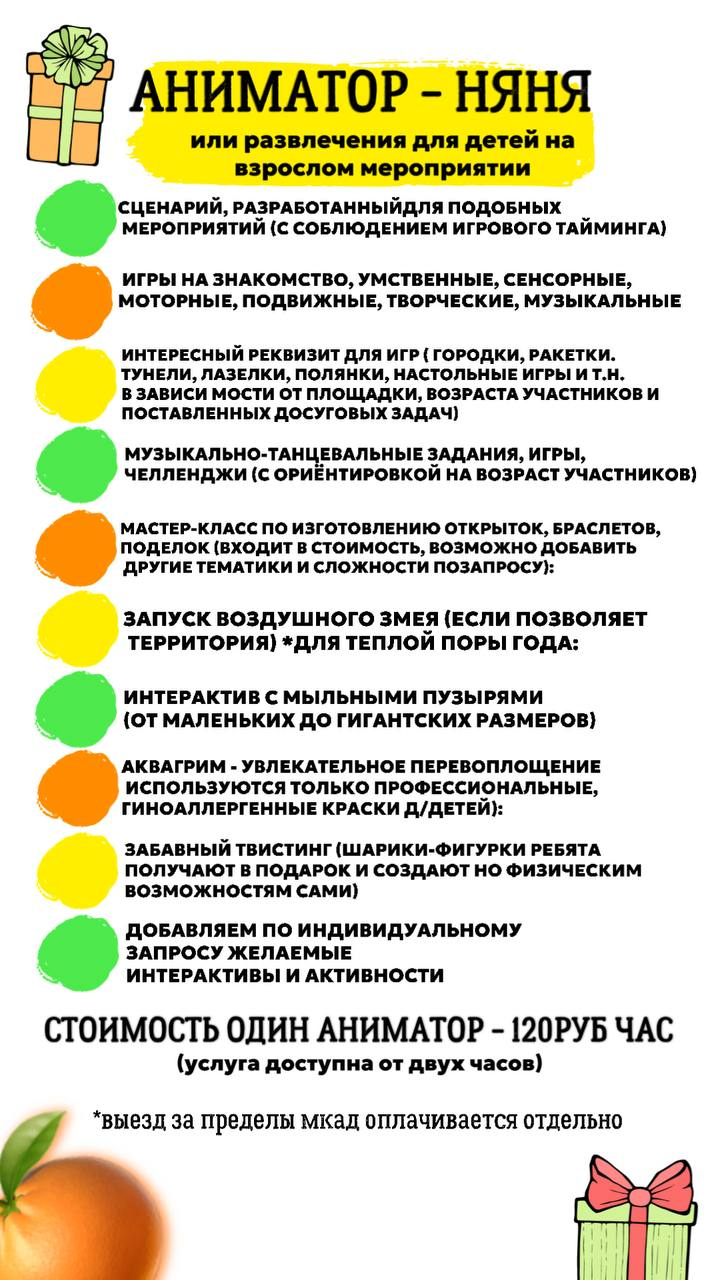
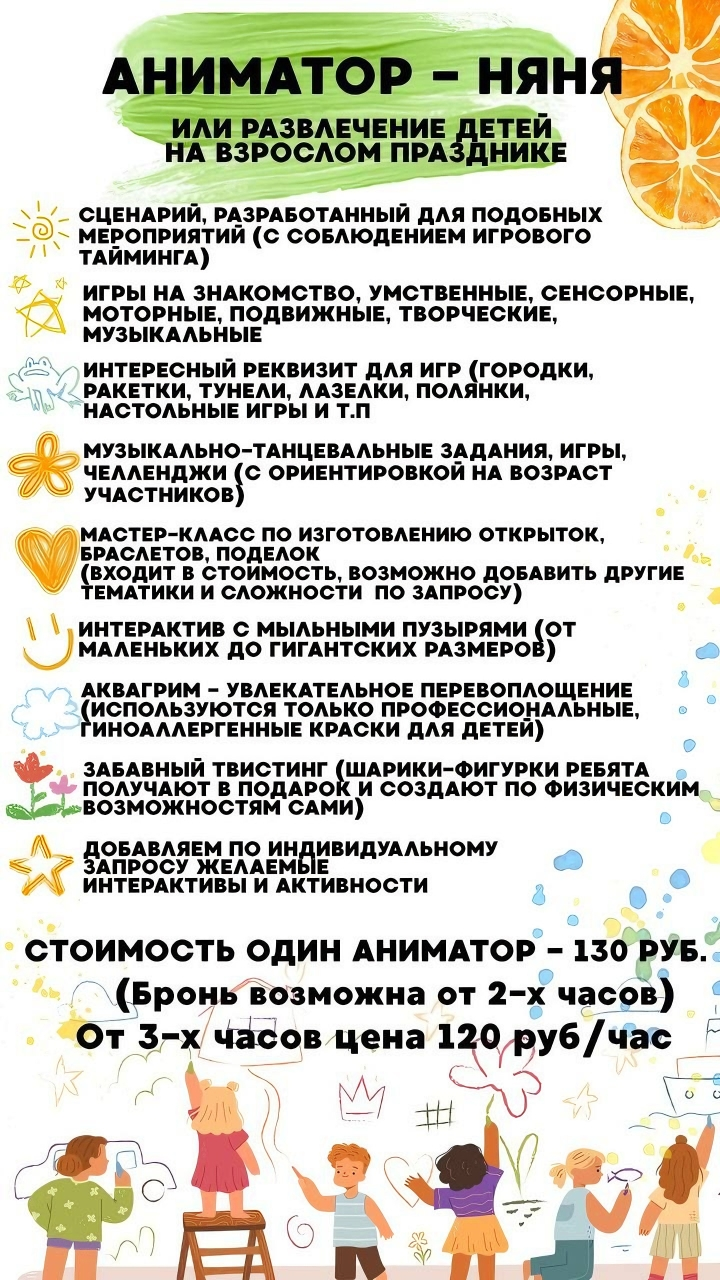
add booms, disco, questWithLabubu, schoolboyOrTroublemaker, new image animatorNanny, soapExtravaganza

diff --git a/constants/programsData.ts b/constants/programsData.ts
@@ -72,6 +72,26 @@ export const programsData: IGoodsData = {
             description: programsDescription,
             images: ['boom1'],
     },
+    'booms': {
+        name: 'Бумс',
+            description: programsDescription,
+            images: ['booms1'],
+    },
+    'disco': {
+        name: 'Диско',
+            description: programsDescription,
+            images: ['disco1'],
+    },
+    'questWithLabubu': {
+        name: 'Квест с Лабубу',
+            description: programsDescription,
+            images: ['questWithLabubu1'],
+    },
+    'schoolboyOrTroublemaker': {
+        name: 'ШКОЛЬНИК или ШКОДНИК?!',
+            description: programsDescription,
+            images: ['questWithLabubu1'],
+    },
     'customProgram': {
         name: 'Сборная программа',
             description: 'Вы просмотрели все праздничные пакеты и не остановились не на одном? Захотелось что-то с одной программы, а что-то с другой? Не беда! Мы составим только Ваш индивидуальный набор развлечений, который подойдёт именно Вам🤗🎉\n' +

diff --git a/constants/programsData.js b/constants/programsData.js
@@ -72,6 +72,26 @@ exports.programsData = {
         description: programsDescription,
         images: ['boom1'],
     },
+    'booms': {
+        name: 'Бумс',
+        description: programsDescription,
+        images: ['booms1'],
+    },
+    'disco': {
+        name: 'Диско',
+        description: programsDescription,
+        images: ['disco1'],
+    },
+    'questWithLabubu': {
+        name: 'Квест с Лабубу',
+        description: programsDescription,
+        images: ['questWithLabubu1'],
+    },
+    'schoolboyOrTroublemaker': {
+        name: 'ШКОЛЬНИК или ШКОДНИК?!',
+        description: programsDescription,
+        images: ['questWithLabubu1'],
+    },
     'customProgram': {
         name: 'Сборная программа',
         description: 'Вы просмотрели все праздничные пакеты и не остановились не на одном? Захотелось что-то с одной программы, а что-то с другой? Не беда! Мы составим только Ваш индивидуальный набор развлечений, который подойдёт именно Вам🤗🎉\n' +

diff --git a/constants/masterClassesData.ts b/constants/masterClassesData.ts
@@ -88,5 +88,10 @@ export const masterClassesData: IGoodsData = {
         name: 'Эбру - рисование на воде',
         description: 'Пожалуй мастер-класс Эбру - рисование на воде самый расслабляющий и погружающий в волшебный космос. Необычные узоры, невероятные красочные вариации, создаются на воде, а после переносятся на бумагу. И у вас уже целая картина, которую нарисовали вы лично! Захочется повторять снова и снова замысловатые фигуры и трансформировать их в фантастические очертания.',
         images: ['ebruPaintingOnWater1', 'ebruPaintingOnWater2'],
+    },
+    'soapExtravaganza': {
+        name: 'Мыльная феерия',
+        description: 'Описание мастер-класса уточняйте у менеджера.',
+        images: ['soapExtravaganza1'],
     }
 };

diff --git a/constants/masterClassesData.js b/constants/masterClassesData.js
@@ -89,5 +89,10 @@ exports.masterClassesData = {
         name: 'Эбру - рисование на воде',
         description: 'Пожалуй мастер-класс Эбру - рисование на воде самый расслабляющий и погружающий в волшебный космос. Необычные узоры, невероятные красочные вариации, создаются на воде, а после переносятся на бумагу. И у вас уже целая картина, которую нарисовали вы лично! Захочется повторять снова и снова замысловатые фигуры и трансформировать их в фантастические очертания.',
         images: ['ebruPaintingOnWater1', 'ebruPaintingOnWater2'],
+    },
+    'soapExtravaganza': {
+        name: 'Мыльная феерия',
+        description: 'Описание мастер-класса уточняйте у менеджера.',
+        images: ['soapExtravaganza1'],
     }
 };

diff --git a/constants/keyboardButtons.ts b/constants/keyboardButtons.ts
@@ -139,6 +139,10 @@ export const programsMenu: string[][] = [
     ['📓 Тематический квест', 'programs_thematicQuest'],
     ['📓 Пузыряши', 'programs_bubbles'],
     ['📓 Бум', 'programs_boom'],
+    ['📓 Бумс', 'programs_booms'],
+    ['📓 Диско', 'programs_disco'],
+    ['📓 Квест с Лабубу', 'programs_questWithLabubu'],
+    ['📓 ШКОЛЬНИК или ШКОДНИК?!', 'programs_schoolboyOrTroublemaker'],
     ['📓 Сборная программа', 'programs_customProgram'],
 ];
 
@@ -170,4 +174,5 @@ export const masterClassesMenu: string[][] = [
     ['🪁 Мыльные пузыри', 'masterClasses_soapBubbles'],
     ['🪁 Роспись масок из папье-маше', 'masterClasses_paintingPapierMacheMasks'],
     ['🪁 Эбру - рисование на воде', 'masterClasses_ebruPaintingOnWater'],
+    ['🪁 Мыльная феерия', 'masterClasses_soapExtravaganza'],
 ];

diff --git a/constants/keyboardButtons.js b/constants/keyboardButtons.js
@@ -123,6 +123,10 @@ exports.programsMenu = [
     ['📓 Тематический квест', 'programs_thematicQuest'],
     ['📓 Пузыряши', 'programs_bubbles'],
     ['📓 Бум', 'programs_boom'],
+    ['📓 Бумс', 'programs_booms'],
+    ['📓 Диско', 'programs_disco'],
+    ['📓 Квест с Лабубу', 'programs_questWithLabubu'],
+    ['📓 ШКОЛЬНИК или ШКОДНИК?!', 'programs_schoolboyOrTroublemaker'],
     ['📓 Сборная программа', 'programs_customProgram'],
 ];
 exports.additionsMenu = [
@@ -152,4 +156,5 @@ exports.masterClassesMenu = [
     ['🪁 Мыльные пузыри', 'masterClasses_soapBubbles'],
     ['🪁 Роспись масок из папье-маше', 'masterClasses_paintingPapierMacheMasks'],
     ['🪁 Эбру - рисование на воде', 'masterClasses_ebruPaintingOnWater'],
+    ['🪁 Мыльная феерия', 'masterClasses_soapExtravaganza'],
 ];
